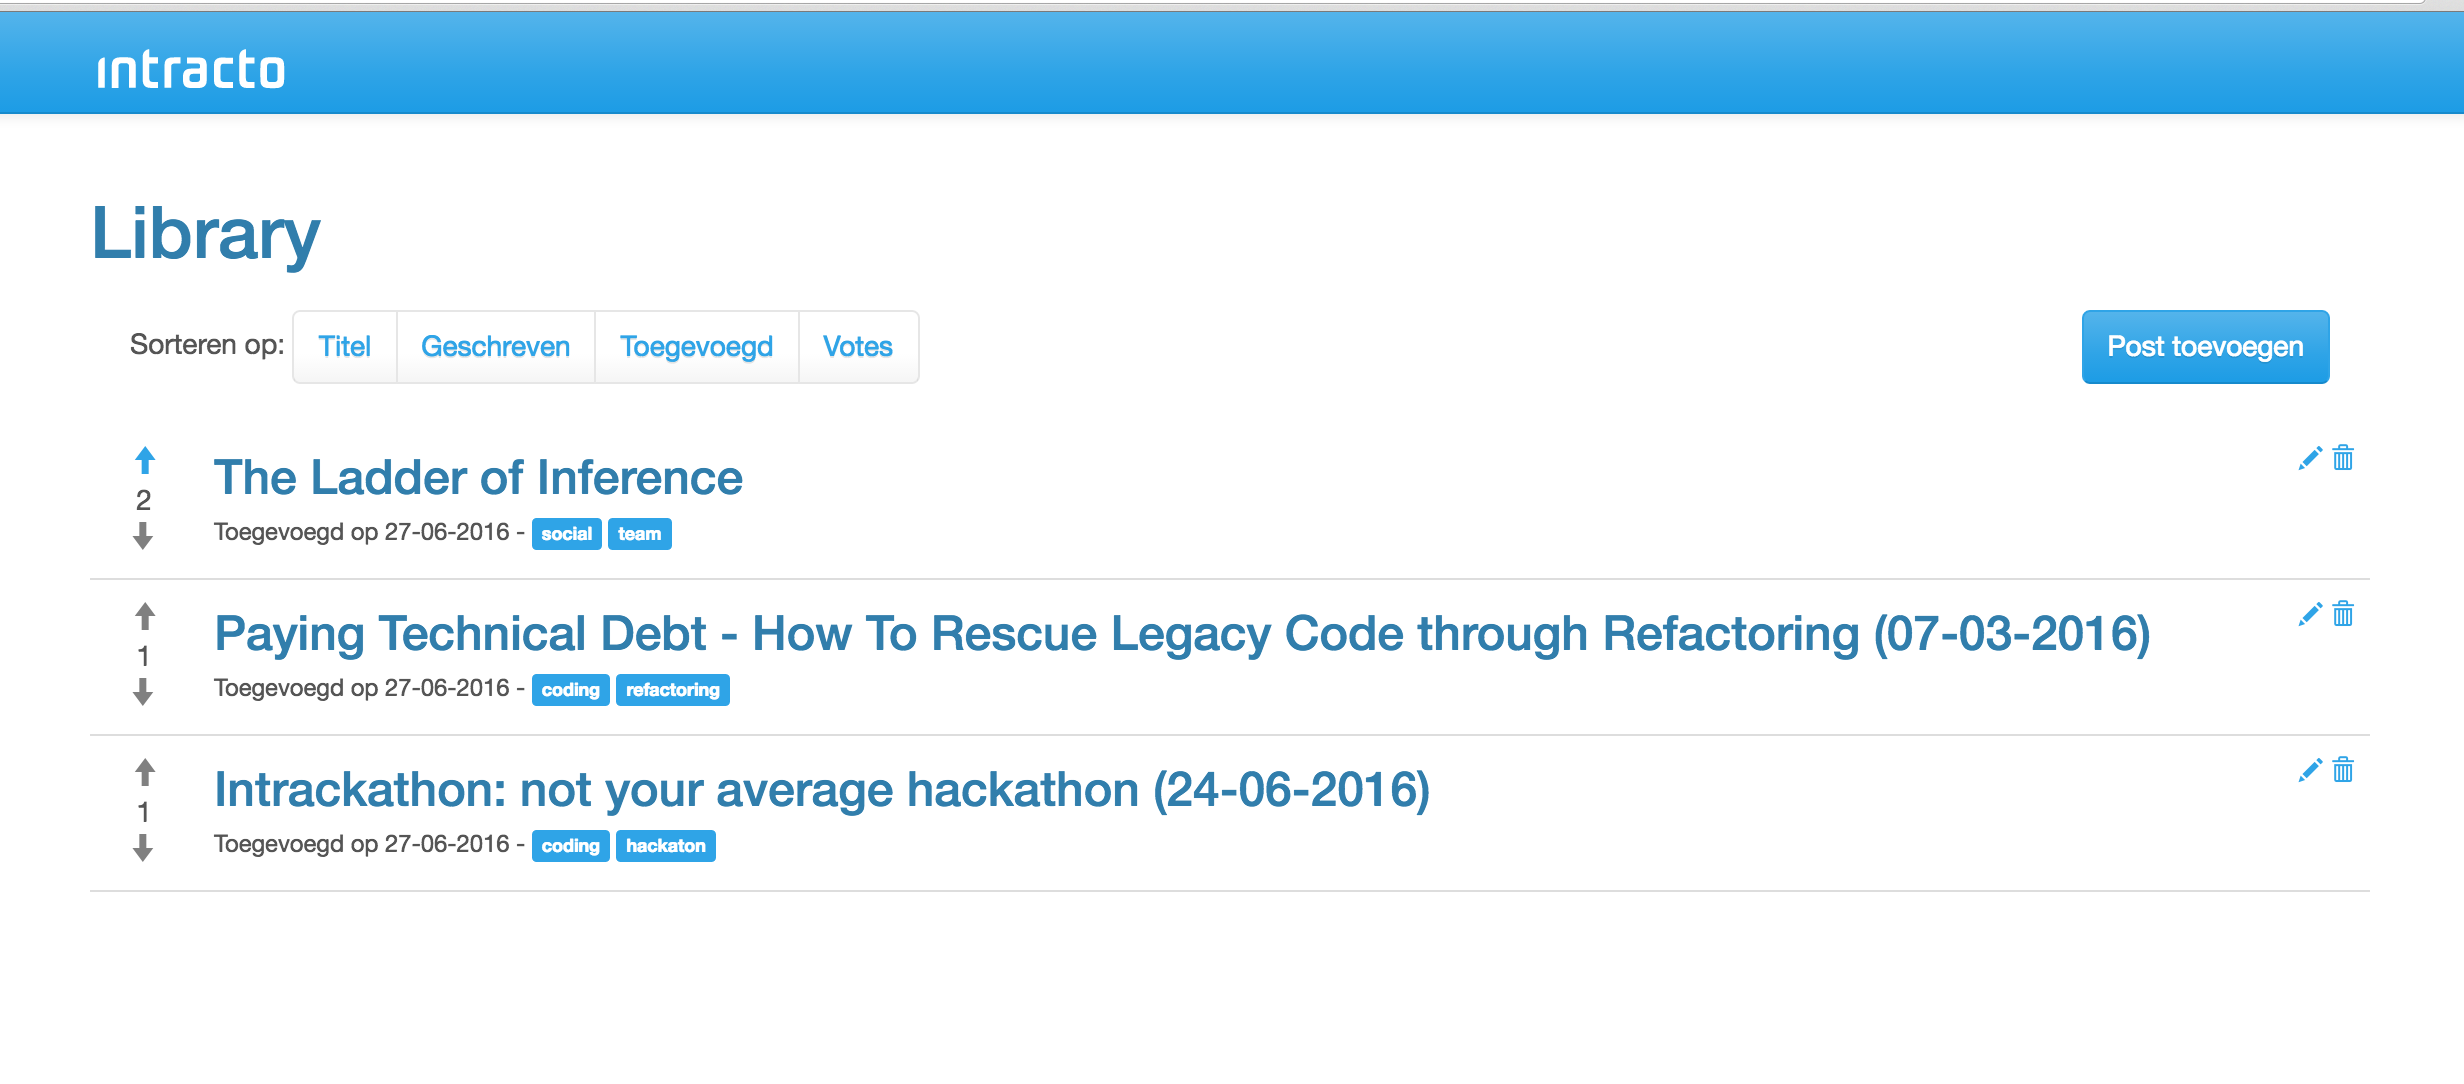
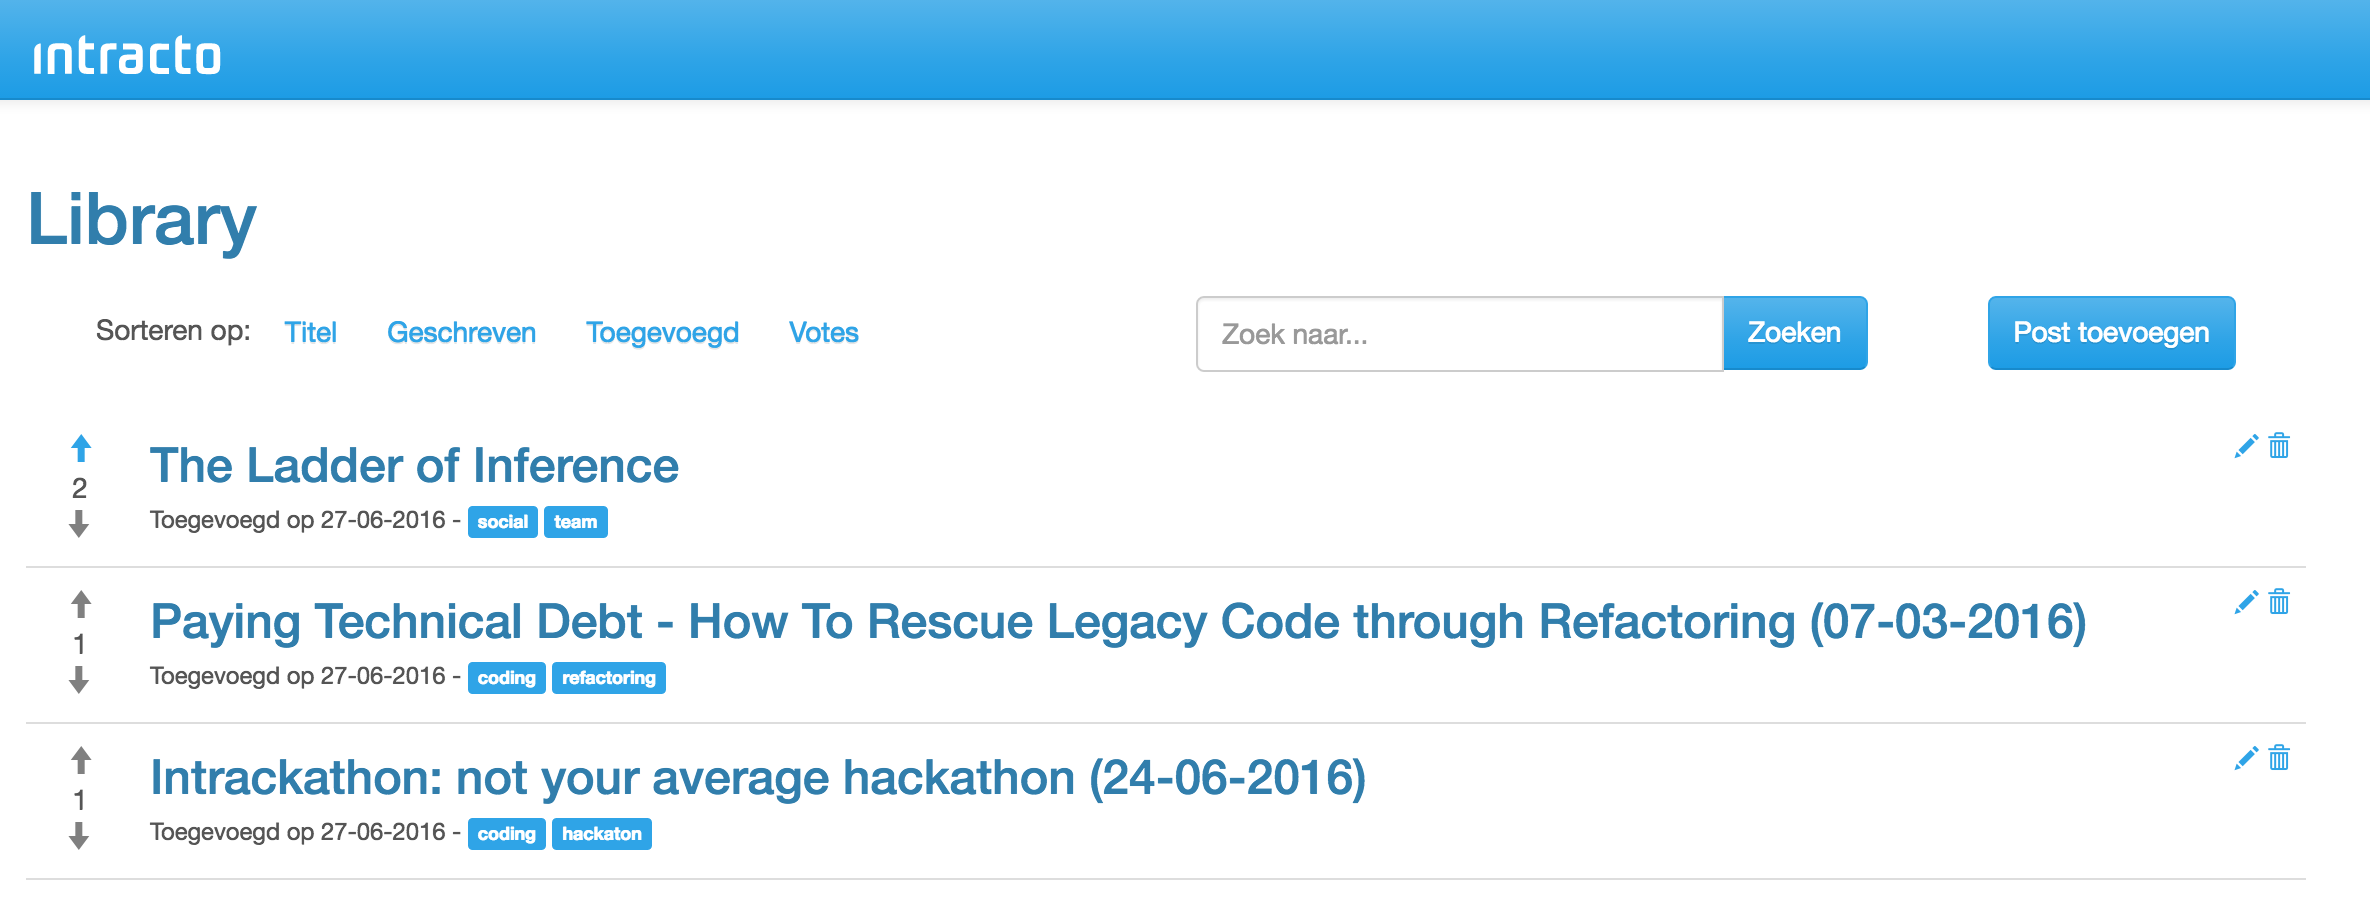
Docs updated

diff --git a/README.md b/README.md
@@ -5,3 +5,6 @@ A simple symfony project to setup a reddit like way of sharing blogposts for int
 
 ![alt text](https://raw.githubusercontent.com/pix-art/ITRLibrary/master/src/ITRLibraryBundle/Resources/public/img/example.png "Intracto Library")
 
+Update 28-06-2016:
+- Added slack integration
+- Added search functionality
